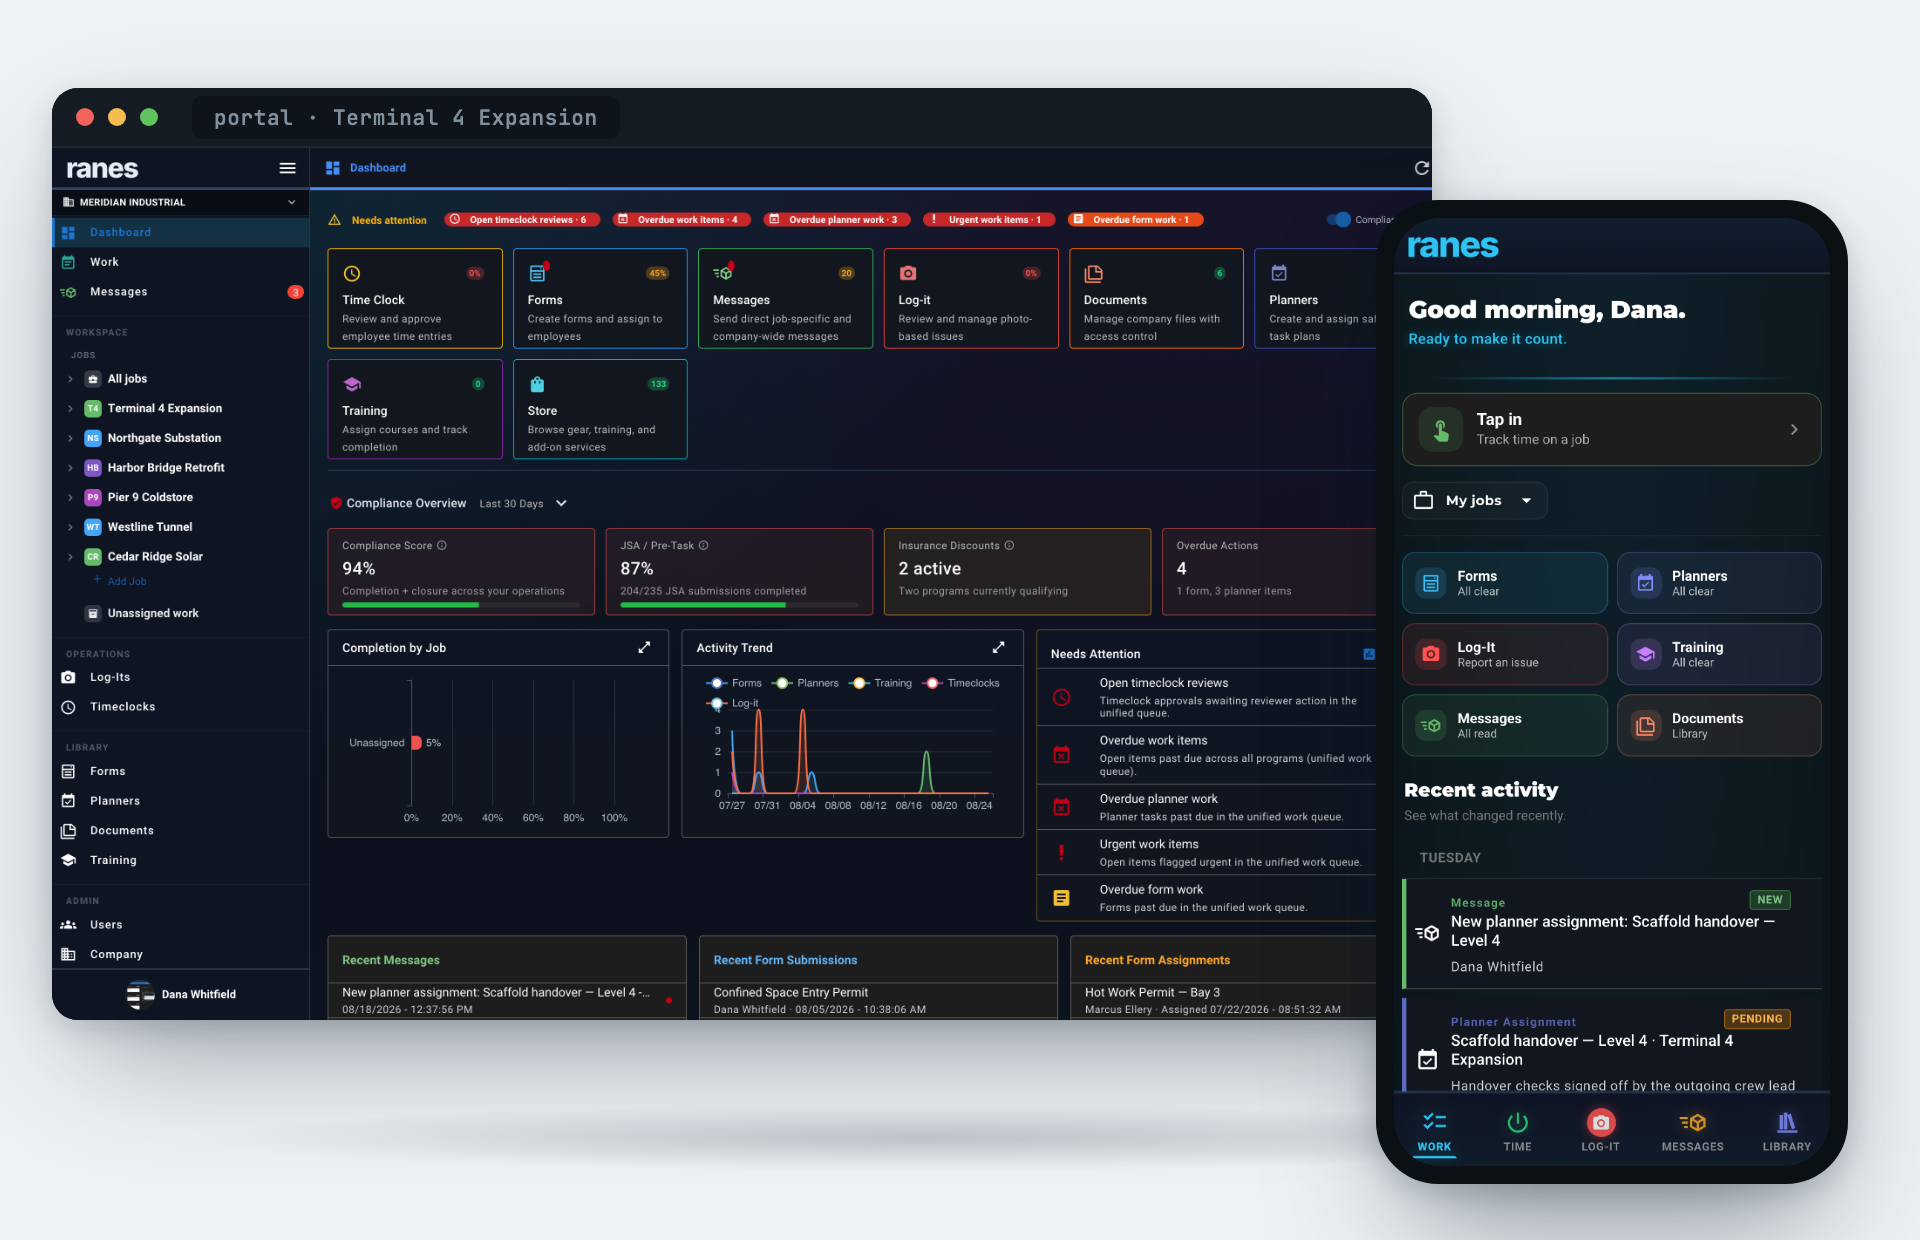
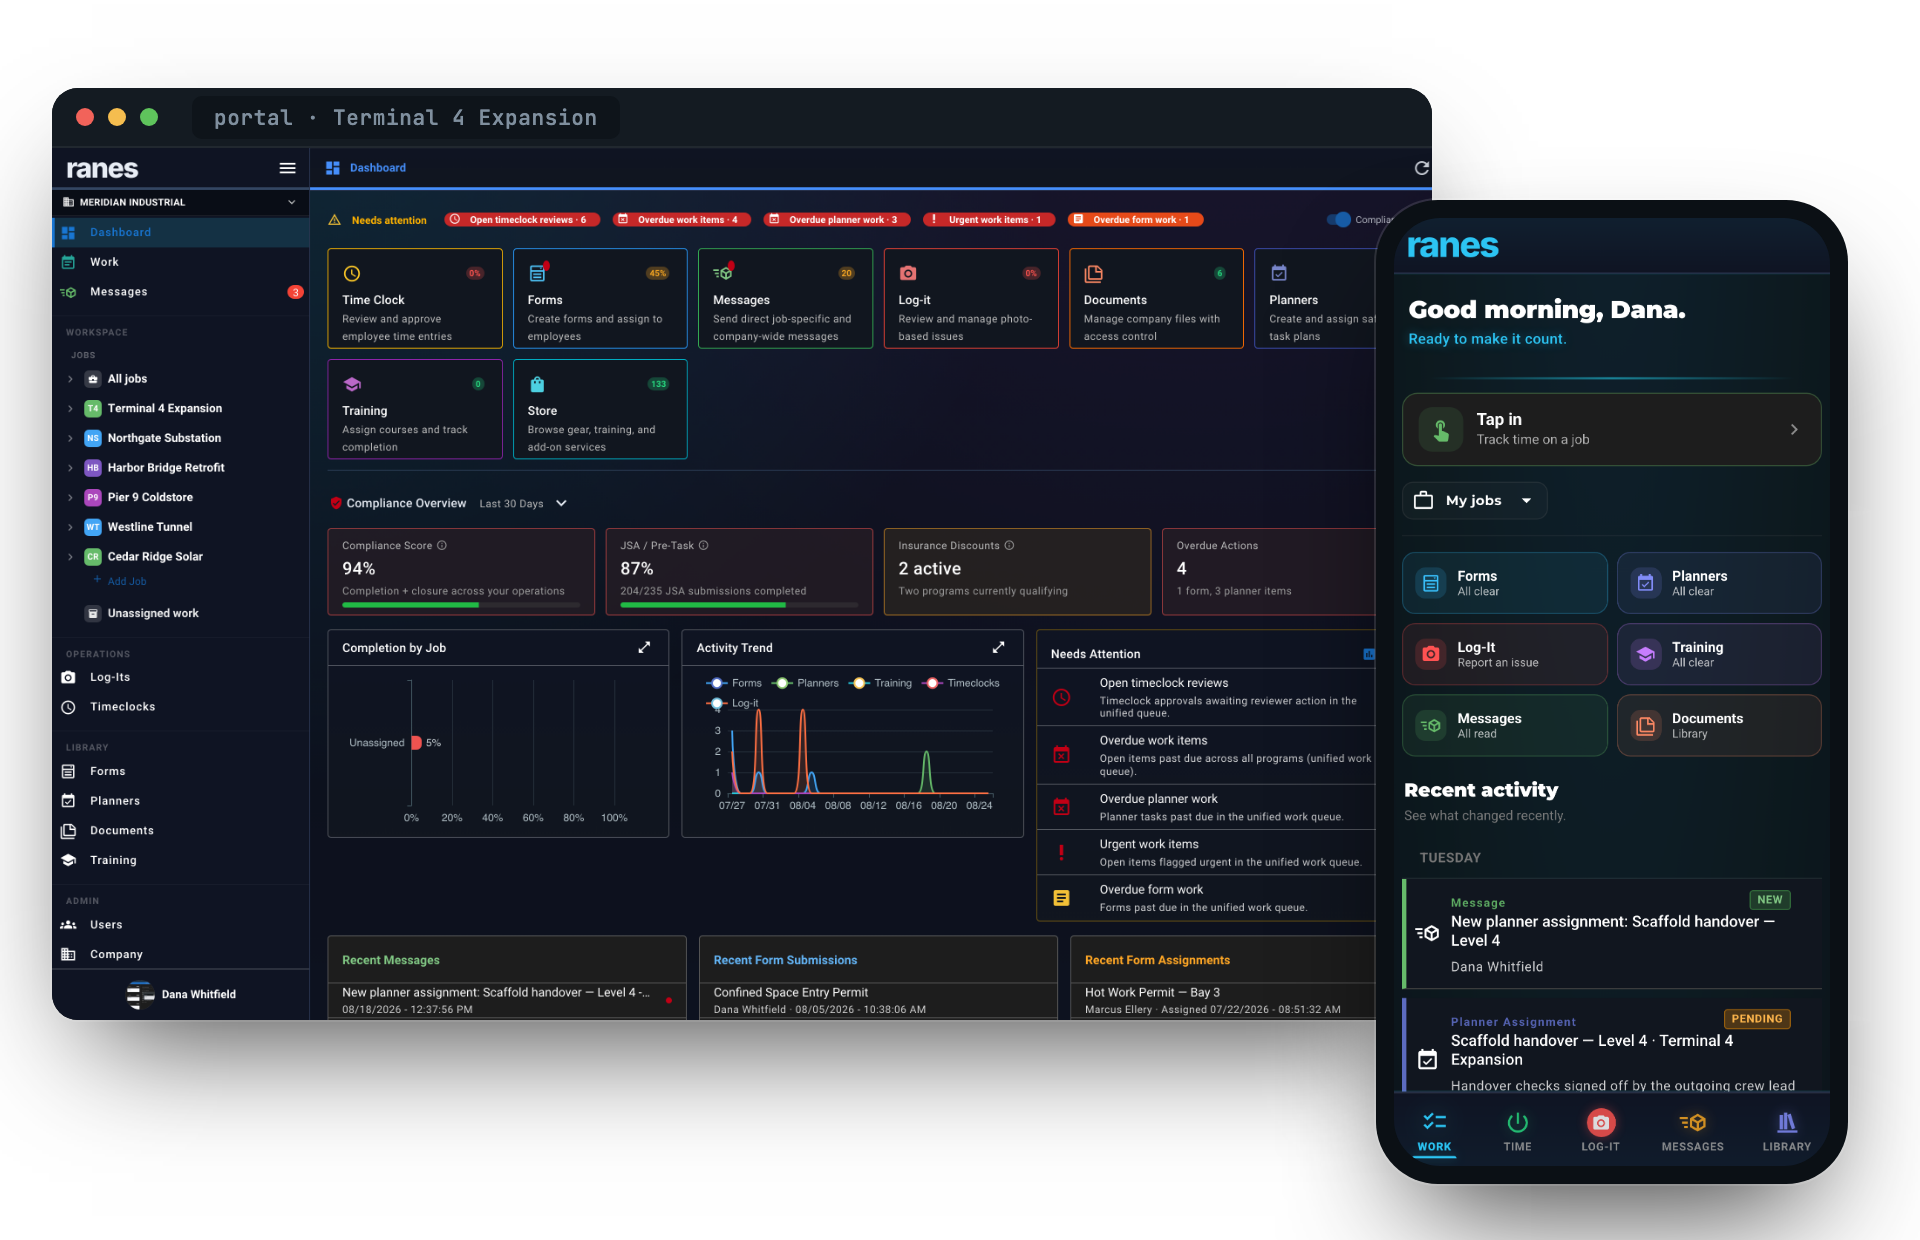
Make the Ranes composite transparent
The graphic baked in a light background, which rendered as a grey slab
inside .featured__art's own gradient panel. Re-rendered with an alpha
background so the panel shows through. Drop shadows do nothing against a
dark surface, so the device frames now carry a hairline rim to separate
them instead.

diff --git a/index.html b/index.html
@@ -198,7 +198,7 @@
 
     <figure class="featured__art reveal">
       <img src="img/portfolio/ranes/ranes-composite.png" alt="The Ranes admin portal showing a compliance overview across six jobs, beside the field app's home screen with its tap-in control and recent activity" width="960" height="620" loading="lazy">
-      <figcaption>The admin portal's compliance overview and the field app home — actual interfaces, with company, people and figures replaced for publication.</figcaption>
+      <figcaption>The admin portal overview and the field app.</figcaption>
     </figure>
 
     <div class="featured__cols">
